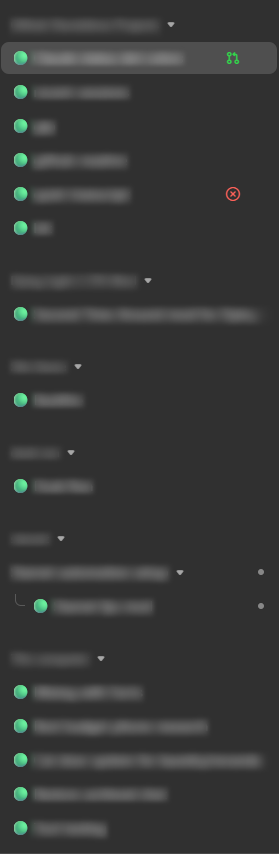
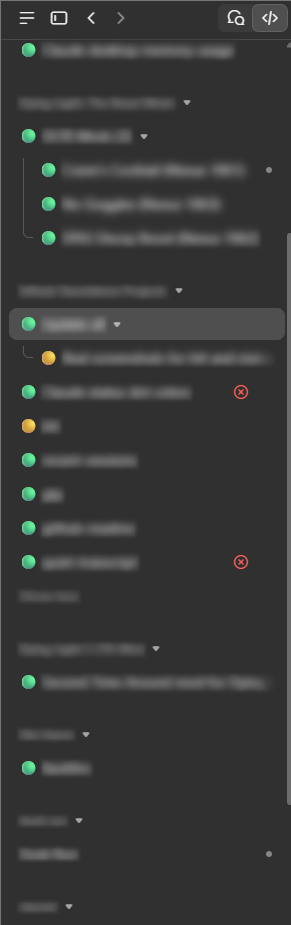
Show green and yellow dots in the README screenshot
The old one had only green dots. Names are blurred; dots, icons and
chevrons are left sharp, and the image carries no metadata.

diff --git a/README.md b/README.md
@@ -2,7 +2,7 @@
 
 A Claude Code mod for the Claude desktop app. It puts a colored dot in front of each session's title in the Code tab's sidebar, so you can tell how a session ended without opening it.
 
-![The Code tab sidebar with status-dots: a green dot in front of each finished session, with the session names blurred](docs/screenshot.png)
+![The Code tab sidebar with status-dots: green dots on finished sessions and yellow dots on two that are waiting for you, with the session and group names blurred](docs/screenshot.png)
 
 | Dot | The session |
 |---|---|

diff --git a/CHANGELOG.md b/CHANGELOG.md
@@ -2,6 +2,10 @@
 
 Tested on Claude Code 2.1.308 with desktop app 3.6556 (Windows).
 
+## Unreleased
+
+- The README's screenshot now shows green and yellow dots, not only green.
+
 ## 0.4.0 - 2026-10-27
 
 - Better status detection: a few seconds after a turn ends, the dot follows the app's own summary of that turn, the one its sidebar uses. A reply that leaves you something to do now gets yellow even when it doesn't end on a question, and a turn the app counts as failed gets red.
